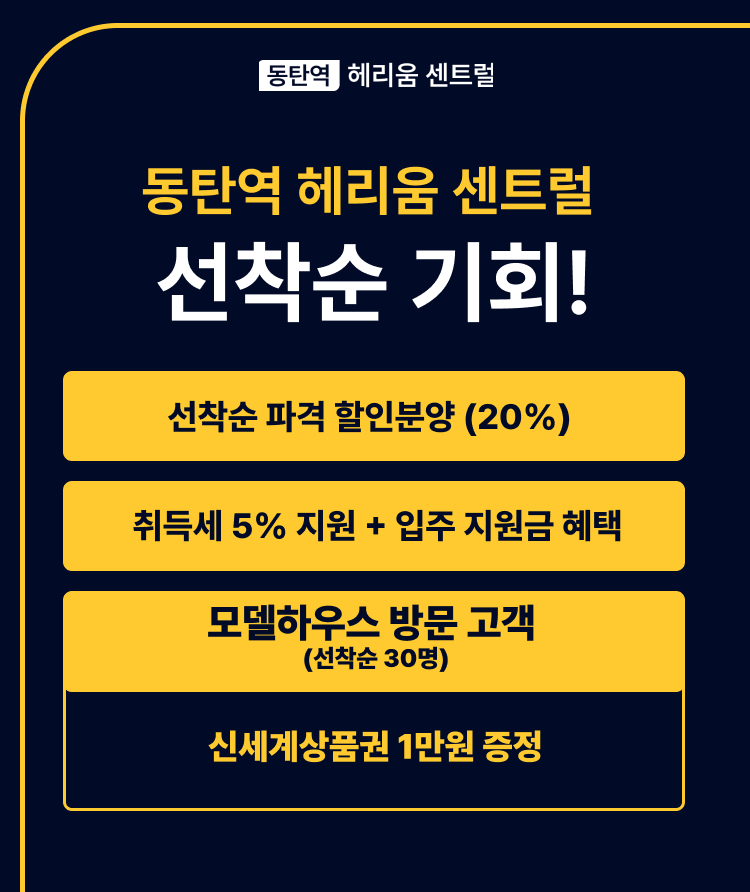
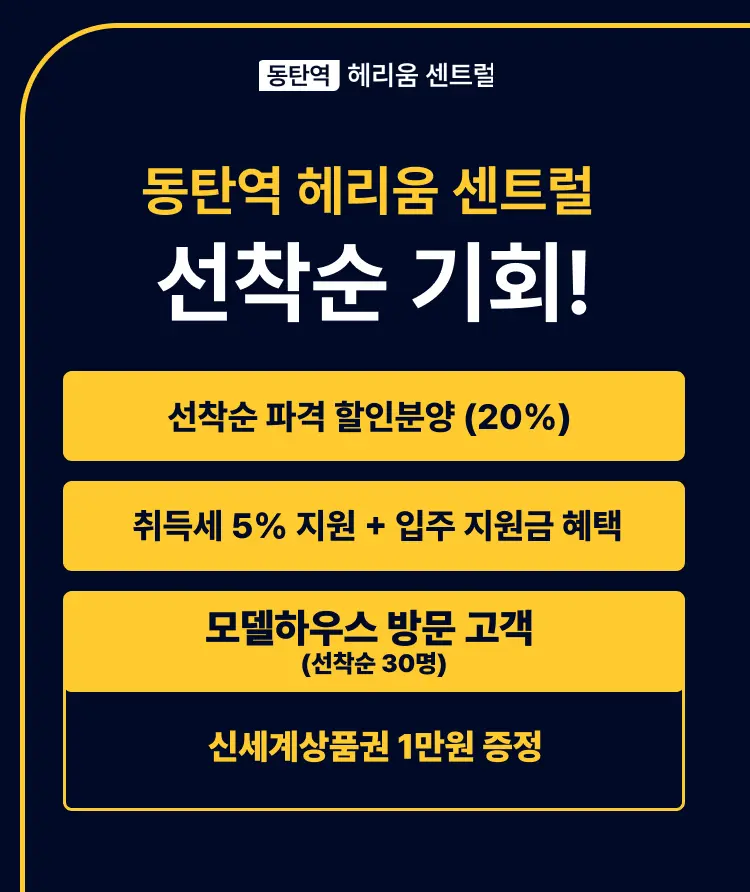
fix: 동탄헤리움센트럴 수정

diff --git a/mobile-scroll/data/sites/dongtan-herium-central.js b/mobile-scroll/data/sites/dongtan-herium-central.js
@@ -50,13 +50,13 @@ const config = {
   ],
 
   hero: {
-    eyebrow:       "동탄신도시｜사전예약", // TODO: 실제 배지 문구로 교체 ("｜"로 구분)
-    eyebrowUrgent: 1, // 왼쪽부터 1개 배지만 urgent 스타일
+    eyebrow:       "동탄신도시｜사전예약",
+    eyebrowUrgent: 1, 
     brand:         "「동탄역헤리움센트럴」",
-    title:         "동탄의 내일을 선점할 랜드마크",
-    subtitle:      "동탄 1·2신도시 핵심 입지!",
-    accentKeyword: "랜드마크",
-    bgColor: "#0F1B33", // TODO: 히어로 이미지 스포이드로 추출한 배경색으로 교체
+    title:         "동탄의 내일을 선점할 랜드마크\n동탄 1·2신도시 핵심 입지!",
+    subtitle:      "쿼터블교통망 [SRT·GTX-A·인동선·동탄트램]",
+    accentKeyword: ["랜드마크", "동탄 1·2신도시"],
+    bgColor: "#0F1B33", 
     image: {
       src:    "/apt/dongtan-herium-central/main.webp",
       alt:    "동탄헤리움센트럴 대표 이미지",
@@ -85,58 +85,58 @@ const config = {
         {
           label: "1차(9-4BL)",
           images: [
-            { src: "/apt/dongtan-herium-central/1-1.webp", alt: "사업개요 1차(9-4BL)" }, // TODO: 실제 사업개요 이미지로 교체
+            { src: "/apt/dongtan-herium-central/1-1-1.webp", alt: "사업개요 1차(9-4BL)" },  // TODO: 실제 사업개요 이미지로 교체
           ],
           specItems: [
             { label: "사업명",   value: "동탄헤리움센트럴" }, // TODO: 실제 사업명으로 교체
-            { label: "대지위치", value: "오산동 1024-4" },
+            { label: "대지위치", value: "동탄대로 411번길 15" },
             { label: "지역/지구", value: "일반상업지역, 지구단위계획구역" },
             { label: "용도",     value: "근린생활시설, 오피스텔" },
             { label: "규모",     value: "지상 4층 ~ 지상 10층" },
             { label: "대지면적", value: "2,153.70㎡ (651.49py)" },
-            { label: "건폐율",   value: "62.15% (법정 70%)" },
-            { label: "용적률",   value: "592.61% (법정 600%)" },
-            { label: "연면적",   value: "19,056.05㎡ (5,764.43py)" },
+            { label: "건폐율",   value: "63.73% (법정 70%)" },
+            { label: "용적률",   value: "592.67% (법정 600%)" },
+            { label: "연면적",   value: "19,074.63㎡ (5,770.07py)" },
             { label: "공급내역", value: "주거형 오피스텔 144실 (59A-72실, 59B-63실, 62C-9실)" },
-            { label: "주차대수", value: "152대 (자주식 107대, 기계식 45대)" },
+            { label: "주차대수", value: "153대 (자주식 108대, 기계식 45대)" },
           ],
         },
         {
           label: "2차(9-5BL)",
           images: [
-            { src: "/apt/dongtan-herium-central/1-1.webp", alt: "사업개요 2차(9-5BL)" }, // TODO: 실제 사업개요 이미지로 교체
+            { src: "/apt/dongtan-herium-central/1-1-2.webp", alt: "사업개요 2차(9-5BL)" }, // TODO: 실제 사업개요 이미지로 교체
           ],
           specItems: [
             { label: "사업명",   value: "동탄헤리움센트럴" }, // TODO: 실제 사업명으로 교체
-            { label: "대지위치", value: "오산동 1024-5" },
+            { label: "대지위치", value: "동탄대로 411번길 11" },
             { label: "지역/지구", value: "일반상업지역, 지구단위계획구역" },
             { label: "용도",     value: "근린생활시설, 오피스텔" },
             { label: "규모",     value: "지상 4층 ~ 지상 10층" },
             { label: "대지면적", value: "2,245.00㎡ (679.11py)" },
-            { label: "건폐율",   value: "69.42% (법정 70%)" },
-            { label: "용적률",   value: "593.92% (법정 600%)" },
-            { label: "연면적",   value: "19,806.87㎡ (5,991.55py)" },
+            { label: "건폐율",   value: "69.99% (법정 70%)" },
+            { label: "용적률",   value: "595.04% (법정 600%)" },
+            { label: "연면적",   value: "19,810.69㎡ (5,992.73py)" },
             { label: "공급내역", value: "오피스텔 144실 (59A-90실, 63B-27실, 69C-18실, 63D-9실)" },
-            { label: "주차대수", value: "154대 (자주식 126대, 기계식 28대)" },
+            { label: "주차대수", value: "156대 (자주식 128대, 기계식 28대)" },
           ],
         },
         {
           label: "3차(15-1BL)",
           images: [
-            { src: "/apt/dongtan-herium-central/1-1.webp", alt: "사업개요 3차(15-1BL)" }, // TODO: 실제 사업개요 이미지로 교체
+            { src: "/apt/dongtan-herium-central/1-1-3.webp", alt: "사업개요 3차(15-1BL)" }, // TODO: 실제 사업개요 이미지로 교체
           ],
           specItems: [
             { label: "사업명",   value: "동탄헤리움센트럴" }, // TODO: 실제 사업명으로 교체
-            { label: "대지위치", value: "오산동 1025" },
+            { label: "대지위치", value: "동탄대로 411번길 7" },
             { label: "지역/지구", value: "일반상업지역, 지구단위계획구역" },
             { label: "용도",     value: "근린생활시설, 오피스텔" },
             { label: "규모",     value: "지상 4층 ~ 지상 10층" },
-            { label: "대지면적", value: "2,660.00㎡ (804.65py)" },
-            { label: "건폐율",   value: "69.58% (법정 70%)" },
-            { label: "용적률",   value: "599.30% (법정 600%)" },
-            { label: "연면적",   value: "23,672.21㎡ (7,160.81py)" },
-            { label: "공급내역", value: "오피스텔 162실 (59A-72, 64B-54, 72C-36)" },
-            { label: "주차대수", value: "202대 (자주식 162대, 기계식 40대)" },
+            { label: "대지면적", value: "2,660.10㎡ (804.68py)" },
+            { label: "건폐율",   value: "69.61% (법정 70%)" },
+            { label: "용적률",   value: "599.69% (법정 600%)" },
+            { label: "연면적",   value: "23,672.68㎡ (7,160.98py)" },
+            { label: "공급내역", value: "오피스텔 162실 (59A-72실, 64B-54실, 72C-36실)" },
+            { label: "주차대수", value: "204대 (자주식 162대, 기계식 40대)" },
           ],
         },
       ],
@@ -241,31 +241,31 @@ const config = {
 
     // 히어로 배지 (eyebrow)
     eyebrow: {
-      color:       "#8C6F41",
-      borderColor: "rgba(140,111,65,0.55)",
+      color:       "#f5c15c",
+      borderColor: "rgba(245,193,92,0.5)",
       fontSize:    "1rem",
     },
     // 긴급 배지 (eyebrowUrgent) — 히어로 강조 문구는 골드 포인트 유지
     eyebrowUrgent: {
-      color:       "#FFCA2F",
-      borderColor: "rgba(255,202,47,0.5)",
+      color:       "#ff6b6b",
+      borderColor: "rgba(255,107,107,0.5)",
     },
 
     // 히어로 브랜드명
     brand: {
       color:    "rgb(255, 255, 255)",
-      fontSize: "1rem",
+      fontSize: "1.15rem",
     },
     // 히어로 메인 타이틀 — 강조 키워드는 골드 포인트
     title: {
       color:       "#ffffff",
-      fontSize:    "clamp(1.6rem,8vw,2.7rem)",
+      fontSize:    "clamp(1.45rem,7vw,2.7rem)",
       accentColor: "#FFCA2F",
     },
     // 히어로 서브타이틀
     subtitle: {
       color:       "#ffffff",
-      fontSize:    "1.15rem",
+      fontSize:    "clamp(0.7rem, 3vw, 1.15rem)",
       accentColor: "#FFCA2F",
     },
 
